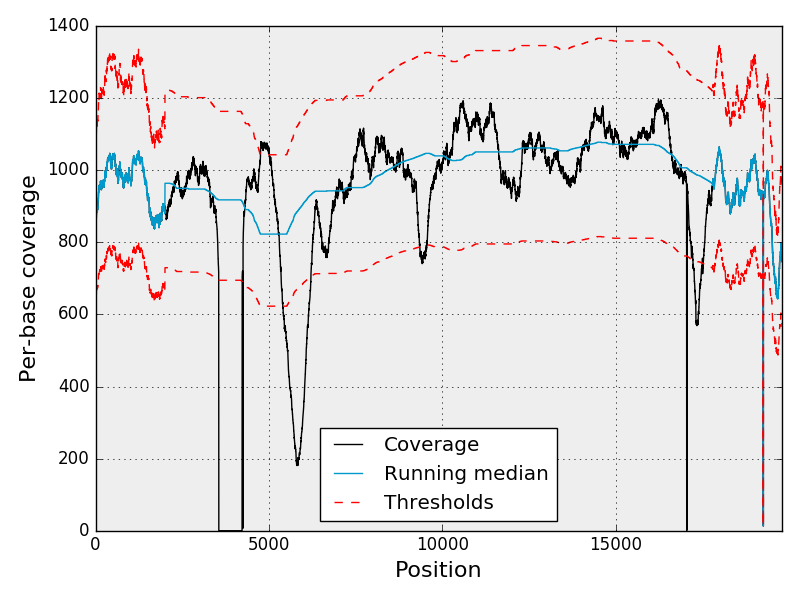
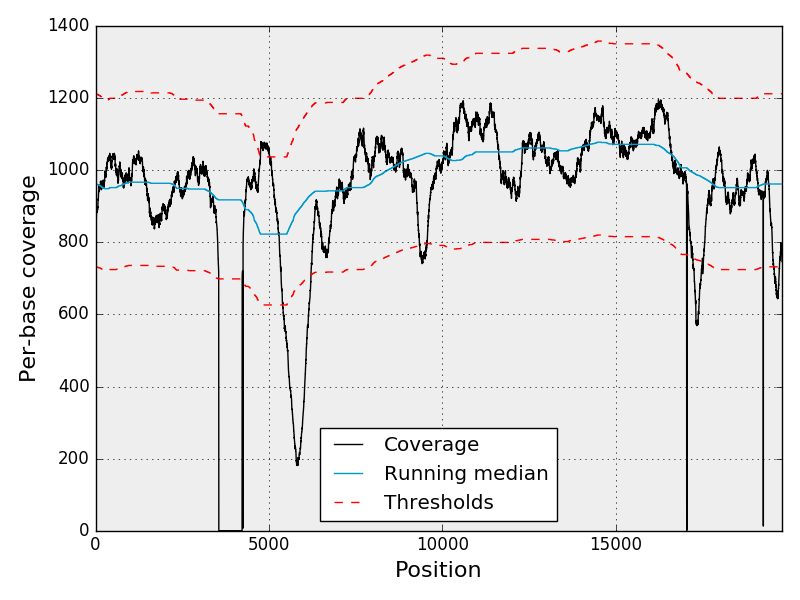
update example

diff --git a/examples/coverage_virus/coverage_mapping.chrom1.html b/examples/coverage_virus/coverage_mapping.chrom1.html
@@ -232,7 +232,7 @@ The following tables give regions of interest detected by sequana. Here is some 
 
 <div class="section" id="Low coverage region">
     <h3><a class="toc-backref" href="#id1">Low coverage region</a></h3>
-    Regions with a z-score lower than -2.00 and at least one base with a z-score lower than -4.00 are detected as low coverage region. Thus, there are 6 low coverage regions
+    Regions with a z-score lower than -2.00 and at least one base with a z-score lower than -4.00 are detected as low coverage region. Thus, there are 8 low coverage regions
     <div><div class="table_outer"><table border="1" class="dataframe sortable">
   <thead>
     <tr style="text-align: right;">
@@ -254,28 +254,28 @@ The following tables give regions of interest detected by sequana. Here is some 
       <td><p style="background-color:#FFB976">699.0</p></td>
       <td>24.59</td>
       <td>917.63</td>
-      <td>-15.44</td>
-      <td>-15.87</td>
+      <td>-15.77</td>
+      <td>-16.20</td>
     </tr>
     <tr>
       <td>gi|549058243|emb|JB409847.1|</td>
-      <td><a target="_blank" href=submapping/coverage_mapping_0_19795.chrom1.html>5400</a></td>
-      <td>6211</td>
-      <td><p style="background-color:#FFC77E">811.0</p></td>
-      <td>400.69</td>
+      <td><a target="_blank" href=submapping/coverage_mapping_0_19795.chrom1.html>5399</a></td>
+      <td>6212</td>
+      <td><p style="background-color:#FFC77E">813.0</p></td>
+      <td>401.34</td>
       <td>877.59</td>
-      <td>-8.68</td>
-      <td>-12.67</td>
+      <td>-8.84</td>
+      <td>-12.93</td>
     </tr>
     <tr>
       <td>gi|549058243|emb|JB409847.1|</td>
-      <td><a target="_blank" href=submapping/coverage_mapping_0_19795.chrom1.html>9351</a></td>
-      <td>9548</td>
-      <td><p style="background-color:#C47C4F">197.0</p></td>
-      <td>763.77</td>
-      <td>1043.97</td>
-      <td>-4.40</td>
-      <td>-4.73</td>
+      <td><a target="_blank" href=submapping/coverage_mapping_0_19795.chrom1.html>9344</a></td>
+      <td>9561</td>
+      <td><p style="background-color:#C87E50">217.0</p></td>
+      <td>766.71</td>
+      <td>1044.03</td>
+      <td>-4.43</td>
+      <td>-4.81</td>
     </tr>
     <tr>
       <td>gi|549058243|emb|JB409847.1|</td>
@@ -284,8 +284,8 @@ The following tables give regions of interest detected by sequana. Here is some 
       <td><p style="background-color:#9E633F">3.0</p></td>
       <td>1.00</td>
       <td>1007.00</td>
-      <td>-15.85</td>
-      <td>-15.87</td>
+      <td>-16.18</td>
+      <td>-16.20</td>
     </tr>
     <tr>
       <td>gi|549058243|emb|JB409847.1|</td>
@@ -294,18 +294,38 @@ The following tables give regions of interest detected by sequana. Here is some 
       <td><p style="background-color:#9E633F">1.0</p></td>
       <td>4.00</td>
       <td>1006.00</td>
-      <td>-15.80</td>
-      <td>-15.80</td>
+      <td>-16.14</td>
+      <td>-16.14</td>
     </tr>
     <tr>
       <td>gi|549058243|emb|JB409847.1|</td>
-      <td><a target="_blank" href=submapping/coverage_mapping_0_19795.chrom1.html>17224</a></td>
-      <td>17523</td>
-      <td><p style="background-color:#D88857">299.0</p></td>
-      <td>664.20</td>
-      <td>986.39</td>
-      <td>-5.31</td>
-      <td>-6.83</td>
+      <td><a target="_blank" href=submapping/coverage_mapping_0_19795.chrom1.html>17186</a></td>
+      <td>17525</td>
+      <td><p style="background-color:#DF8D5A">339.0</p></td>
+      <td>676.79</td>
+      <td>987.30</td>
+      <td>-5.21</td>
+      <td>-6.96</td>
+    </tr>
+    <tr>
+      <td>gi|549058243|emb|JB409847.1|</td>
+      <td><a target="_blank" href=submapping/coverage_mapping_0_19795.chrom1.html>19257</a></td>
+      <td>19258</td>
+      <td><p style="background-color:#9E633F">1.0</p></td>
+      <td>13.00</td>
+      <td>962.00</td>
+      <td>-15.98</td>
+      <td>-15.98</td>
+    </tr>
+    <tr>
+      <td>gi|549058243|emb|JB409847.1|</td>
+      <td><a target="_blank" href=submapping/coverage_mapping_0_19795.chrom1.html>19554</a></td>
+      <td>19722</td>
+      <td><p style="background-color:#BE784C">168.0</p></td>
+      <td>684.32</td>
+      <td>962.00</td>
+      <td>-4.80</td>
+      <td>-5.47</td>
     </tr>
   </tbody>
 </table></div> <p>Download the CSV <a href="low_coverage.chrom1.csv">file</a> </p> </div>
@@ -330,13 +350,13 @@ The following tables give regions of interest detected by sequana. Here is some 
   <tbody>
     <tr>
       <td>gi|549058243|emb|JB409847.1|</td>
-      <td><a target="_blank" href=submapping/coverage_mapping_0_19795.chrom1.html>4757</a></td>
-      <td>5014</td>
-      <td><p style="background-color:#FFC77E">257.0</p></td>
-      <td>1065.21</td>
+      <td><a target="_blank" href=submapping/coverage_mapping_0_19795.chrom1.html>4756</a></td>
+      <td>5020</td>
+      <td><p style="background-color:#FFC77E">264.0</p></td>
+      <td>1064.51</td>
       <td>823.0</td>
-      <td>4.42</td>
-      <td>4.68</td>
+      <td>4.53</td>
+      <td>4.81</td>
     </tr>
   </tbody>
 </table></div> <p>Download the CSV <a href="high_coverage.chrom1.csv">file</a> </p> </div>
@@ -375,7 +395,7 @@ The following tables give regions of interest detected by sequana. Here is some 
    
     command used:<br> 
     <pre>
-    /home/cokelaer/anaconda2/envs/py35/bin/sequana_coverage --input JB409847.bed --reference JB409847.fa
+    /home/cokelaer/anaconda2/envs/py35/bin/sequana_coverage --input JB409847.bed --reference JB409847.fa -o
     </pre>
     
 
@@ -385,7 +405,7 @@ The following tables give regions of interest detected by sequana. Here is some 
        </div>
 
       <div class="copyright">
-          <div class="date">Created on 2016-12-07 00:03:35 by cokelaer</div>
+          <div class="date">Created on 2016-12-07 09:45:45 by cokelaer</div>
        </div>
    </div>
 </div>

diff --git a/examples/coverage_virus/submapping/coverage_mapping_0_19795.chrom1.html b/examples/coverage_virus/submapping/coverage_mapping_0_19795.chrom1.html
@@ -208,7 +208,7 @@ The following tables give regions of interest detected by sequana. Here is some 
     <h3><a class="toc-backref" href="#id1">Low coverage region</a></h3>
 Region with a zscore lower than 2.0 and at least one base
 with a zscore lower than 4 are detected as low 
-coverage region. Thus, there are 6 low coverage regions.
+coverage region. Thus, there are 8 low coverage regions.
 
     <div class="table_outer"><table border="1" class="dataframe sortable">
   <thead>
@@ -231,28 +231,28 @@ coverage region. Thus, there are 6 low coverage regions.
       <td><p style="background-color:#FFB976">699.0</p></td>
       <td>24.59</td>
       <td>917.63</td>
-      <td>-15.44</td>
-      <td>-15.87</td>
+      <td>-15.77</td>
+      <td>-16.20</td>
     </tr>
     <tr>
       <td>gi|549058243|emb|JB409847.1|</td>
-      <td>5400</td>
-      <td>6211</td>
-      <td><p style="background-color:#FFC77E">811.0</p></td>
-      <td>400.69</td>
+      <td>5399</td>
+      <td>6212</td>
+      <td><p style="background-color:#FFC77E">813.0</p></td>
+      <td>401.34</td>
       <td>877.59</td>
-      <td>-8.68</td>
-      <td>-12.67</td>
+      <td>-8.84</td>
+      <td>-12.93</td>
     </tr>
     <tr>
       <td>gi|549058243|emb|JB409847.1|</td>
-      <td>9351</td>
-      <td>9548</td>
-      <td><p style="background-color:#C47C4F">197.0</p></td>
-      <td>763.77</td>
-      <td>1043.97</td>
-      <td>-4.40</td>
-      <td>-4.73</td>
+      <td>9344</td>
+      <td>9561</td>
+      <td><p style="background-color:#C87E50">217.0</p></td>
+      <td>766.71</td>
+      <td>1044.03</td>
+      <td>-4.43</td>
+      <td>-4.81</td>
     </tr>
     <tr>
       <td>gi|549058243|emb|JB409847.1|</td>
@@ -261,8 +261,8 @@ coverage region. Thus, there are 6 low coverage regions.
       <td><p style="background-color:#9E633F">3.0</p></td>
       <td>1.00</td>
       <td>1007.00</td>
-      <td>-15.85</td>
-      <td>-15.87</td>
+      <td>-16.18</td>
+      <td>-16.20</td>
     </tr>
     <tr>
       <td>gi|549058243|emb|JB409847.1|</td>
@@ -271,18 +271,38 @@ coverage region. Thus, there are 6 low coverage regions.
       <td><p style="background-color:#9E633F">1.0</p></td>
       <td>4.00</td>
       <td>1006.00</td>
-      <td>-15.80</td>
-      <td>-15.80</td>
+      <td>-16.14</td>
+      <td>-16.14</td>
     </tr>
     <tr>
       <td>gi|549058243|emb|JB409847.1|</td>
-      <td>17224</td>
-      <td>17523</td>
-      <td><p style="background-color:#D88857">299.0</p></td>
-      <td>664.20</td>
-      <td>986.39</td>
-      <td>-5.31</td>
-      <td>-6.83</td>
+      <td>17186</td>
+      <td>17525</td>
+      <td><p style="background-color:#DF8D5A">339.0</p></td>
+      <td>676.79</td>
+      <td>987.30</td>
+      <td>-5.21</td>
+      <td>-6.96</td>
+    </tr>
+    <tr>
+      <td>gi|549058243|emb|JB409847.1|</td>
+      <td>19257</td>
+      <td>19258</td>
+      <td><p style="background-color:#9E633F">1.0</p></td>
+      <td>13.00</td>
+      <td>962.00</td>
+      <td>-15.98</td>
+      <td>-15.98</td>
+    </tr>
+    <tr>
+      <td>gi|549058243|emb|JB409847.1|</td>
+      <td>19554</td>
+      <td>19722</td>
+      <td><p style="background-color:#BE784C">168.0</p></td>
+      <td>684.32</td>
+      <td>962.00</td>
+      <td>-4.80</td>
+      <td>-5.47</td>
     </tr>
   </tbody>
 </table></div>
@@ -310,13 +330,13 @@ coverage region. Thus, there are 1 high coverage regions.
   <tbody>
     <tr>
       <td>gi|549058243|emb|JB409847.1|</td>
-      <td>4757</td>
-      <td>5014</td>
-      <td><p style="background-color:#FFC77E">257.0</p></td>
-      <td>1065.21</td>
+      <td>4756</td>
+      <td>5020</td>
+      <td><p style="background-color:#FFC77E">264.0</p></td>
+      <td>1064.51</td>
       <td>823.0</td>
-      <td>4.42</td>
-      <td>4.68</td>
+      <td>4.53</td>
+      <td>4.81</td>
     </tr>
   </tbody>
 </table></div>
@@ -335,7 +355,7 @@ coverage region. Thus, there are 1 high coverage regions.
        </div>
 
       <div class="copyright">
-          <div class="date">Created on 2016-12-07 00:03:35 by cokelaer</div>
+          <div class="date">Created on 2016-12-07 09:45:45 by cokelaer</div>
        </div>
    </div>
 </div>
